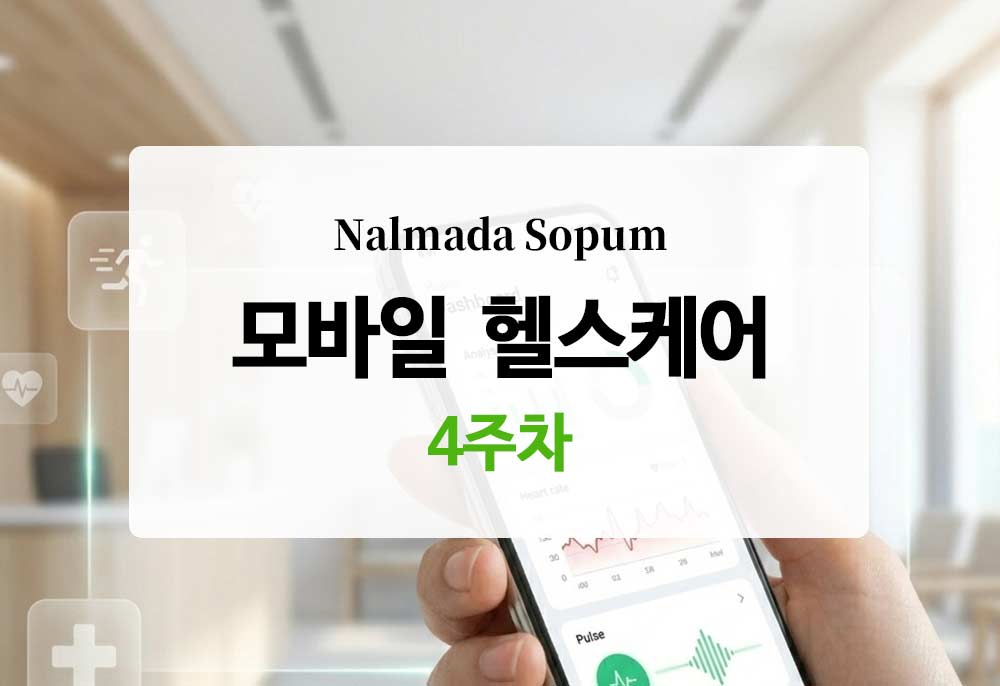
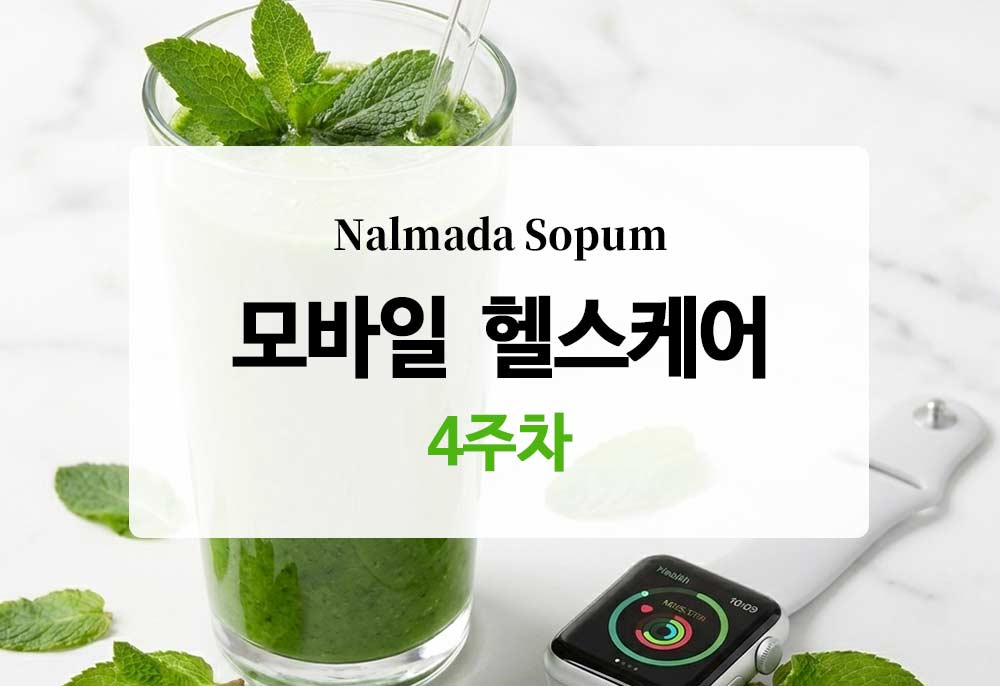
ㅇ

diff --git a/_site/index.html b/_site/index.html
@@ -142,7 +142,7 @@
   
   <section class="hero-section">
     <div class="hero-image-wrap">
-      <a href="/daily/2026/05/23/biseulsan.html"><img src="https://nalmadasopum.com/assets/images/daily/260523-biseulsan-main.jpg" alt="[오늘의 단상] 구름 속을 걷는 기분, 비 오는 날의 운치 있는 비슬산 나들이"></a>
+      <a href="/daily/2026/05/24/health-care-4-week.html"><img src="https://nalmadasopum.com/assets/images/daily/260524-health-care-week4-main.jpg" alt="[모바일 헬스케어] 4주차 기록 - 식사량 다시 점검하기"></a>
       <div class="hero-quote">
         "The warmth of a handmade moment<br>remains in the texture of the fabric."
       </div>
@@ -154,12 +154,33 @@
        <!--제목 글자수에 따른 폰트 크기 조절-->
       
       <h1 class="hero-title title-long">
-        <a href="/daily/2026/05/23/biseulsan.html">[오늘의 단상] 구름 속을 걷는 기분, 비 오는 날의 운치 있는 비슬산 나들이</a>
+        <a href="/daily/2026/05/24/health-care-4-week.html">[모바일 헬스케어] 4주차 기록 - 식사량 다시 점검하기</a>
       </h1>
       
-      <p class="hero-desc">안녕하세요! 평범한 일상 속에서 소소한 행복을 찾아가는 ‘날마다 소품’입니다. 😊
+      <p class="hero-desc">
+  
+    
+    🪡
+    건강한 일상 짓기, 27주 챌린지 🧶
+    
+    
+      
+      
+      
+      4주 차 (14% 달성)
+      
+    
+  
+    
+      시작
+      건강한 습관 완주까지 앞으로 23주 남았습니다. 아자아자~ 파이팅! 🏃♀️
+      완주
+    
+    
+  
+
 </p>
-      <a href="/daily/2026/05/23/biseulsan.html" class="btn-primary">EXPLORE STORIES &rarr;</a>
+      <a href="/daily/2026/05/24/health-care-4-week.html" class="btn-primary">EXPLORE STORIES &rarr;</a>
     </div>
   </section>
 
@@ -175,6 +196,20 @@
     <div class="stories-divider"></div>
 
     <div class="stories-grid" id="index-grid">
+      
+      <article class="story-card index-story-card">
+        <a href="/daily/2026/05/23/biseulsan.html" class="card-image">
+          <img src="https://nalmadasopum.com/assets/images/daily/260523-biseulsan-main.jpg" alt="[오늘의 단상] 구름 속을 걷는 기분, 비 오는 날의 운치 있는 비슬산 나들이">
+        </a>
+        <div class="card-meta">
+          <span class="date">May 23, 2026</span>
+          <span class="divider">·</span>
+          <span class="category">DAILY</span>
+        </div>
+        <h3 class="card-title"><a href="/daily/2026/05/23/biseulsan.html">[오늘의 단상] 구름 속을 걷는 기분, 비 오는 날의 운치 있는 비슬산 나들이</a></h3>
+        <p class="card-excerpt">안녕하세요! 평범한 일상 속에서 소소한 행복을 찾아가는 ‘날마다 소품’입니다. 😊
+</p>
+      </article>
       
       <article class="story-card index-story-card">
         <a href="/daily/2026/05/17/health-care-3-week.html" class="card-image">
@@ -553,6 +588,17 @@
     <h3>최근 올라온 이야기</h3>
     
     <ul class="post-list">
+      
+        <li>
+          <span class="post-date">2026-05-24</span>
+
+          <span class="post-category" > 대분류-소분류 나타내기
+            소소한 일상
+             - 건강한 습관 챌린지
+          </span>
+
+          <a href="/daily/2026/05/24/health-care-4-week.html">[모바일 헬스케어] 4주차 기록 - 식사량 다시 점검하기</a>
+        </li>
       
         <li>
           <span class="post-date">2026-05-23</span>

diff --git a/_site/category/daily/index.html b/_site/category/daily/index.html
@@ -162,6 +162,27 @@
     <div class="stories-grid">
       
       
+      <article class="story-card" data-tag="건강한-습관-챌린지" style="display: none;">
+        <a href="/daily/2026/05/24/health-care-4-week.html" class="card-image">
+          <img src="https://nalmadasopum.com/assets/images/daily/260524-health-care-week4-main.jpg" alt="[모바일 헬스케어] 4주차 기록 - 식사량 다시 점검하기">
+        </a>
+        <div class="card-meta">
+          <span class="date">May 24, 2026</span>
+          <span class="divider">·</span>
+          <span class="category">DAILY</span>
+        </div>
+        <h3 class="card-title"><a href="/daily/2026/05/24/health-care-4-week.html">[모바일 헬스케어] 4주차 기록 - 식사량 다시 점검하기</a></h3>
+        <p class="card-excerpt">
+  
+    
+    🪡
+    건강한 일상 짓기, 27주 챌린지 🧶
+    
+    
+      
+...</p>
+      </article>
+      
       <article class="story-card" data-tag="오늘의-단상" style="display: none;">
         <a href="/daily/2026/05/23/biseulsan.html" class="card-image">
           <img src="https://nalmadasopum.com/assets/images/daily/260523-biseulsan-main.jpg" alt="[오늘의 단상] 구름 속을 걷는 기분, 비 오는 날의 운치 있는 비슬산 나들이">
@@ -400,6 +421,16 @@
   <br><br>
 
   <ul class="post-list" id="paginated-list"> <!--리스트 15개-->
+    
+      <li class="post-item" data-tag="건강한-습관-챌린지" style="display: none;">
+        <span class="post-date">2026-05-24</span>
+
+        <span class="post-category">
+          소소한 일상
+           - 건강한 습관 챌린지
+        </span>
+        <a href="/daily/2026/05/24/health-care-4-week.html">[모바일 헬스케어] 4주차 기록 - 식사량 다시 점검하기</a>
+      </li>
     
       <li class="post-item" data-tag="오늘의-단상" style="display: none;">
         <span class="post-date">2026-05-23</span>

diff --git a/_posts/daily/2026-05-24-health-care-4-week.md b/_posts/daily/2026-05-24-health-care-4-week.md
@@ -24,7 +24,7 @@ image: "/assets/images/daily/260524-health-care-week4-main.jpg"
   
     <div class="challenge-footer">
       <span>시작</span>
-      <span class="challenge-msg">건강한 습관 완주까지 <br>앞으로 <b>24주</b> 남았습니다.<br> 아자아자~ 파이팅! 🏃♀️</span>
+      <span class="challenge-msg">건강한 습관 완주까지 <br>앞으로 <b>23주</b> 남았습니다.<br> 아자아자~ 파이팅! 🏃♀️</span>
       <span>완주</span>
     </div>
     